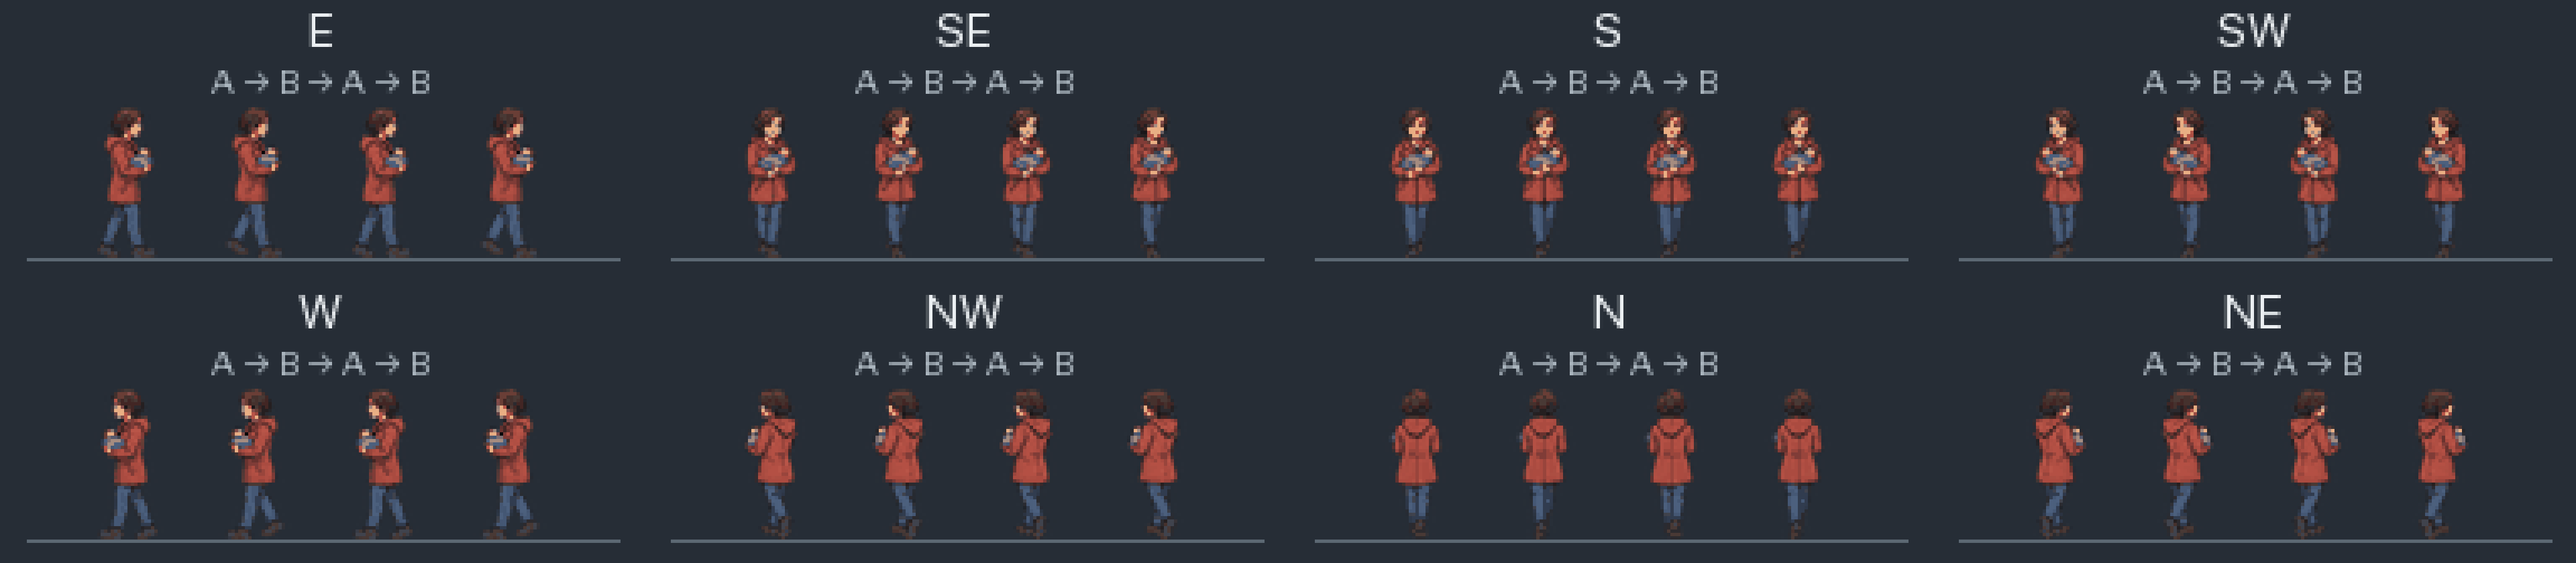
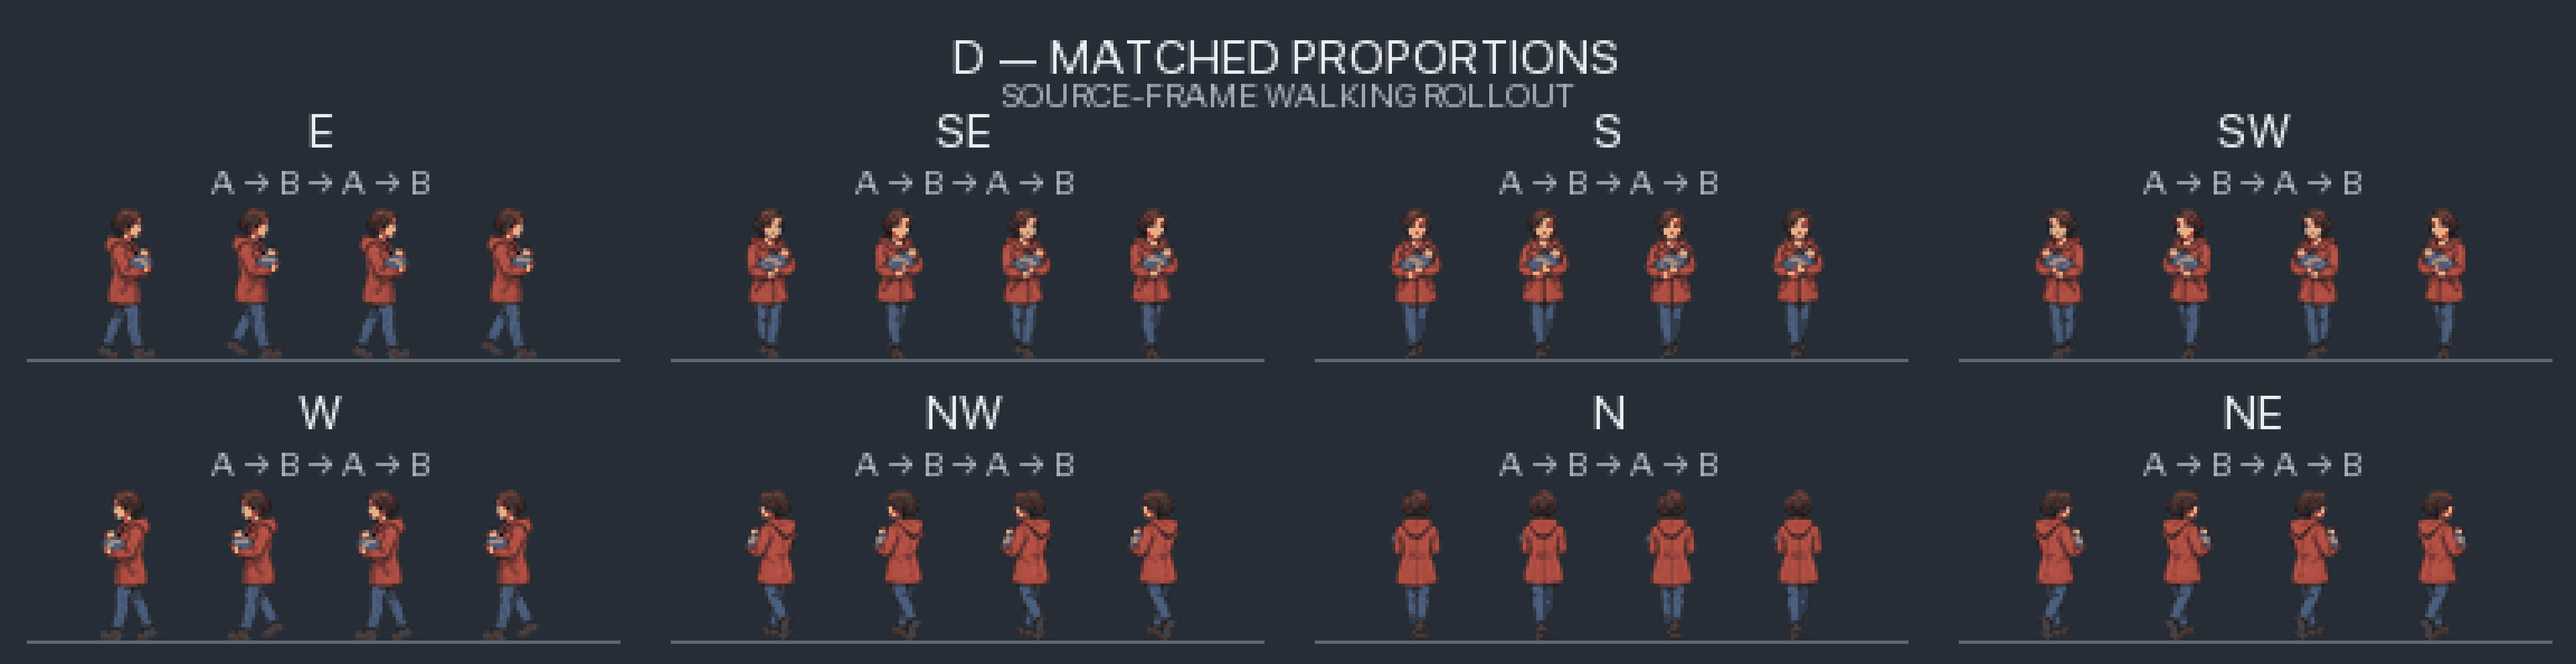
Clarify D rollout labeling and E loop note

Changed region(s): [[0.0, 0.0308, 1.0, 0.9841], [0.5312, 0.6151, 0.7188, 0.8919], [0.8438, 0.0308, 0.9062, 0.0923]]

diff --git a/docs/evidence/comic-carrying-redraw-2026-09-12/rollout/assemble_rollout.py b/docs/evidence/comic-carrying-redraw-2026-09-12/rollout/assemble_rollout.py
@@ -59,11 +59,14 @@ def label(draw: ImageDraw.ImageDraw, text: str, x: int, y: int, anchor: str = "m
 
 def build_static() -> Image.Image:
     cell_w, cell_h = 192, 84
-    canvas = Image.new("RGBA", (4 * cell_w, 2 * cell_h), SLATE + (255,))
+    title_h = 30
+    canvas = Image.new("RGBA", (4 * cell_w, title_h + 2 * cell_h), SLATE + (255,))
     draw = ImageDraw.Draw(canvas)
+    draw.text((canvas.width // 2, 8), "D — MATCHED PROPORTIONS", font=LABEL, anchor="ma", fill=TEXT)
+    draw.text((canvas.width // 2, 22), "SOURCE-FRAME WALKING ROLLOUT", font=SMALL, anchor="ma", fill=MUTED)
     for index, (direction, view, mirrored) in enumerate(DIRECTIONS):
         col, row = index % 4, index // 4
-        left, top = col * cell_w, row * cell_h
+        left, top = col * cell_w, title_h + row * cell_h
         label(draw, direction, left + cell_w // 2, top + 8)
         draw.text((left + cell_w // 2, top + 24), "A → B → A → B", font=SMALL,
                   anchor="mm", fill=MUTED)

diff --git a/docs/evidence/comic-carrying-redraw-2026-09-12/rollout/README.md b/docs/evidence/comic-carrying-redraw-2026-09-12/rollout/README.md
@@ -5,6 +5,9 @@ the current gameplay drawing path. The static sheet shows each direction's two-f
 `A → B → A → B`; the GIF shows the same loop in place at 190 ms per frame. The A and B PNGs are
 the individual GIF frames for inspection.
 
+The static sheet is titled **D — Matched proportions** and labeled **Source-frame walking
+rollout** so its status is explicit at a glance.
+
 The source files are the ten PNGs in `../registered/rig/`, with the exact SHA-256 values recorded
 in `manifest.json`. Each source is enlarged by exactly 6× with nearest-neighbor sampling. The
 quiet slate background is added only for review, and all sprites share the registered ground
@@ -15,7 +18,7 @@ The timing follows the current source behavior: `_walk_phase += velocity.length(
 (the requested walking-speed shorthand is `92*dt*.09`) and stepping selects B when
 `sin(_walk_phase * 2.0) > 0.0`. The GIF is a source animation preview in place; it does not claim
 gameplay travel or approval. It deliberately exposes D's known insufficient stride and does not
-use E's independent four-pose loop.
+use E's independent four-phase loop (three unique poses).
 
 `assemble_rollout.py` is the reproducible recipe. Run it from the repository checkout with:
 
